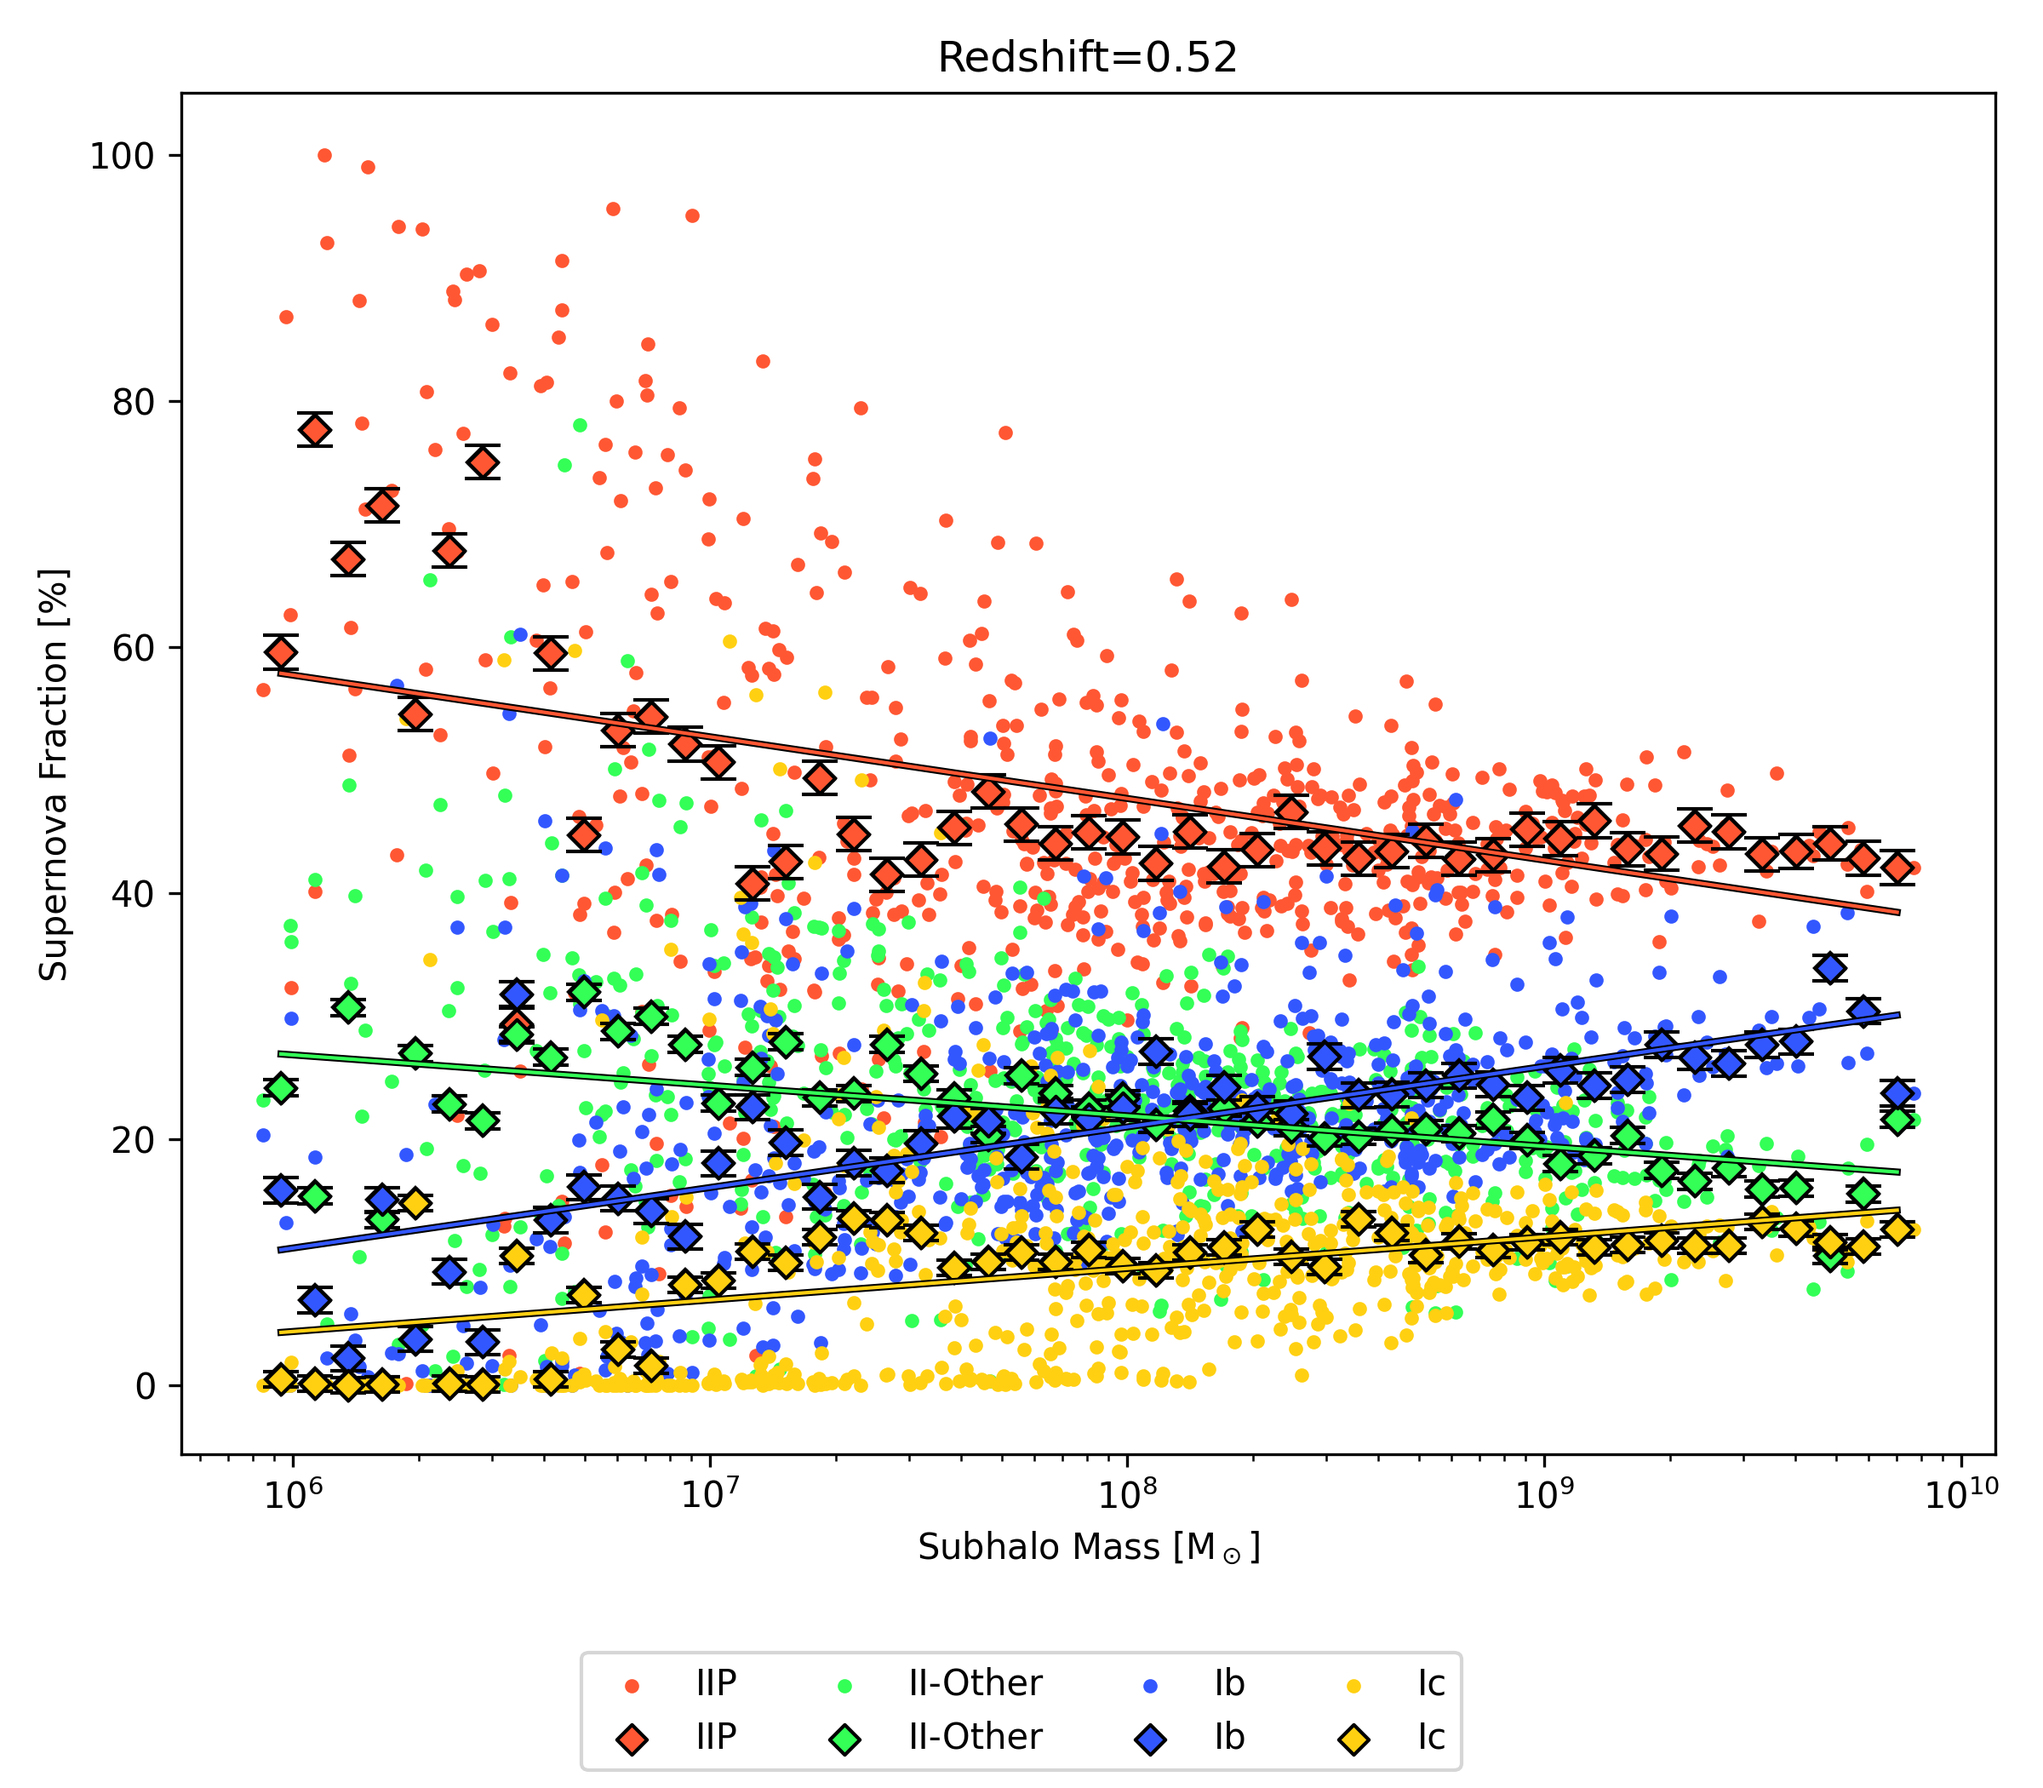
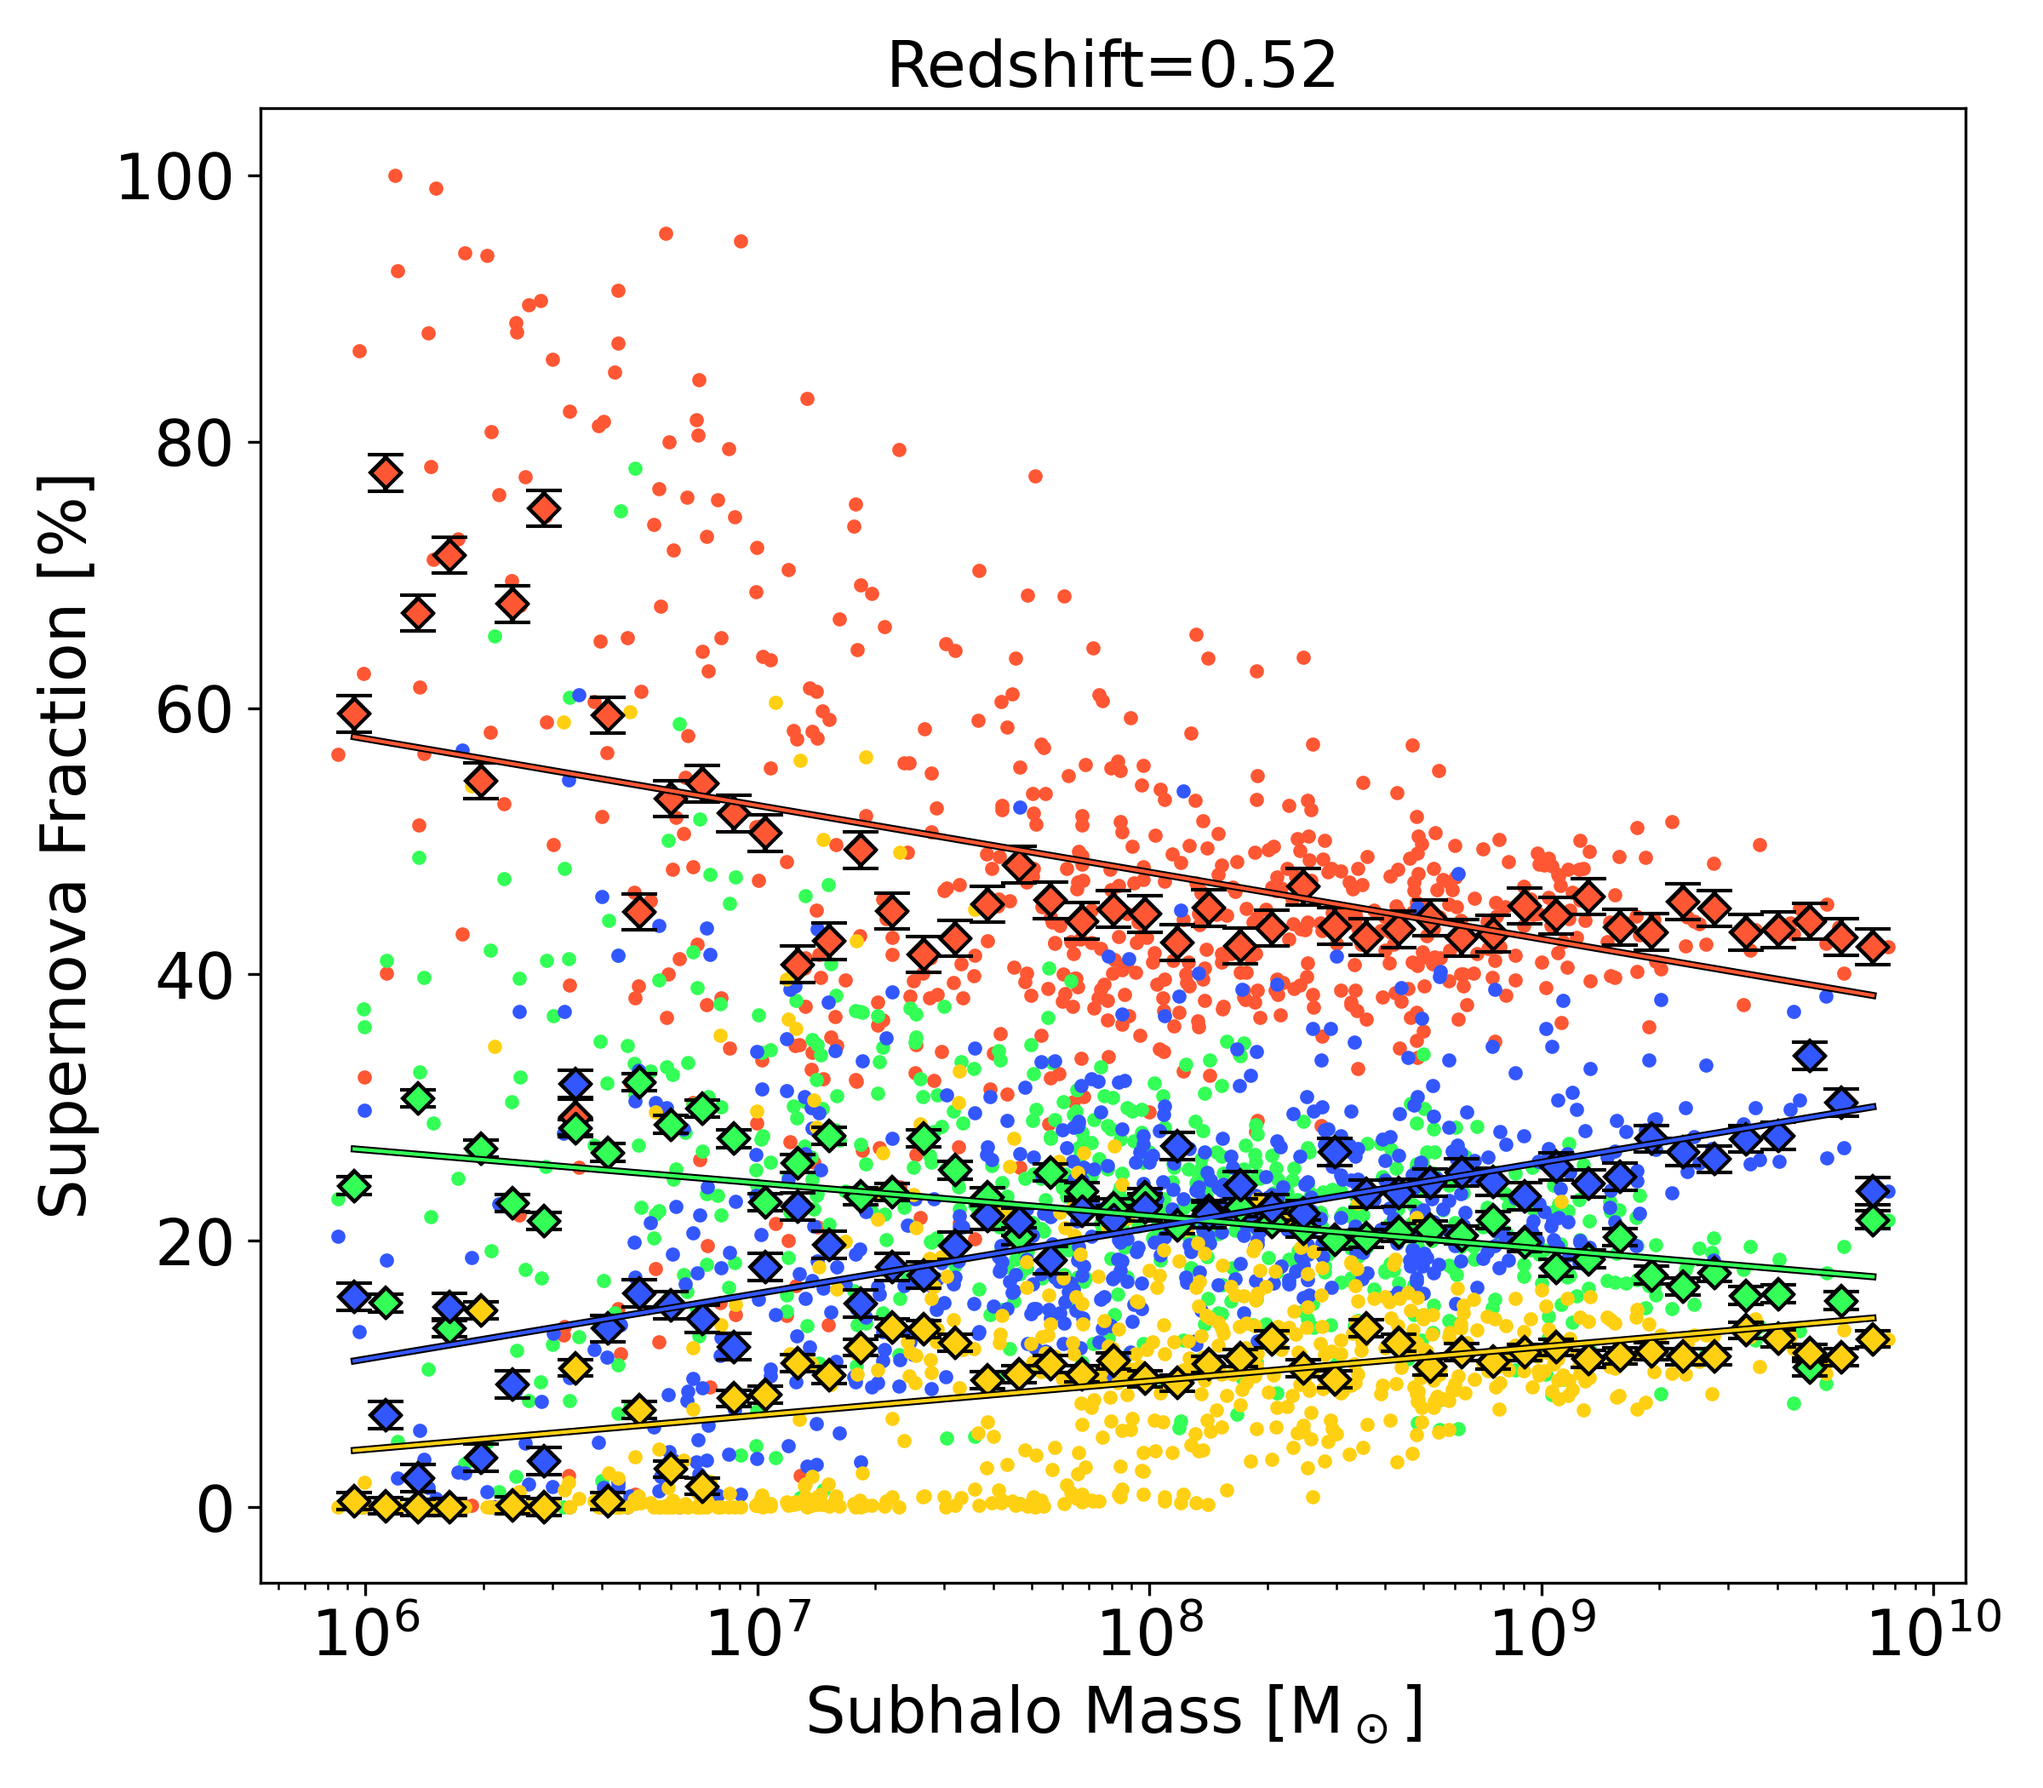
fraction plots

diff --git a/halo.py b/halo.py
@@ -174,27 +174,30 @@ def redshift_bins(snaps, png_name='ratio.png', pcols=1):
             axes_bin[i].plot(bin_centers, y_pred, color=colors[idx], linewidth=1, zorder=40) 
 
         ratio_data[s] = sub_data
-        axes[i].set_xlabel(r'Subhalo Mass [$\mathrm{M_\odot}$]')
-        axes[i].set_ylabel("Supernova Fraction [%]")
+        axes[i].set_xlabel(r'Subhalo Mass [$\mathrm{M_\odot}$]', fontsize=18)
+        axes[i].set_ylabel("Supernova Fraction [%]", fontsize=18)
         axes[i].set_xscale('log')
-        axes[i].set_title(f"Redshift={z:.2f}")
+        axes[i].set_title(f"Redshift={z:.2f}", fontsize=18)
+        axes[i].tick_params(axis='both', labelsize=18)
 
-        axes_bin[i].set_xlabel(r'Subhalo Mass [$\mathrm{M_\odot}$]')
-        axes_bin[i].set_ylabel("Supernova Fraction [%]")
+        axes_bin[i].set_xlabel(r'Subhalo Mass [$\mathrm{M_\odot}$]', fontsize=18)
+        axes_bin[i].set_ylabel("Supernova Fraction [%]", fontsize=18)
         axes_bin[i].set_xscale('log')
-        axes_bin[i].set_title(f"Redshift={z:.2f}")
+        axes_bin[i].set_title(f"Redshift={z:.2f}", fontsize=18)
+        axes_bin[i].tick_params(axis='both', labelsize=18)
     
     # legends
     handles, labels = axes[0].get_legend_handles_labels()
-    fig.legend(handles, labels, loc="lower center", ncol=len(sn_type))
-    fig.tight_layout(rect=[0, 0.1, 1, 1])
+    #fig.legend(handles, labels, loc="lower center", ncol=len(sn_type))
+    #fig.tight_layout(rect=[0, 0.1, 1, 1])
+    fig.tight_layout(rect=[0, 0, 1, 1])
     fig.savefig(f"Data/Images/TNG/ratio/mass/all/{png_name}", dpi=300)
     plt.close(fig)
 
     handles, labels = axes_bin[0].get_legend_handles_labels()
-    fig_bin.legend(handles, labels, loc="lower center", ncol=len(sn_type))
-    fig_bin.tight_layout(rect=[0, 0.07, 1, 1])
-    #fig_bin.tight_layout(rect=[0, 0, 1, 1])
+    #fig_bin.legend(handles, labels, loc="lower center", ncol=len(sn_type))
+    #fig_bin.tight_layout(rect=[0, 0.07, 1, 1])
+    fig_bin.tight_layout(rect=[0, 0, 1, 1])
     fig_bin.savefig(f"Data/Images/TNG/ratio/mass/reduced/b{png_name}", dpi=300)
     plt.close(fig_bin)
 
